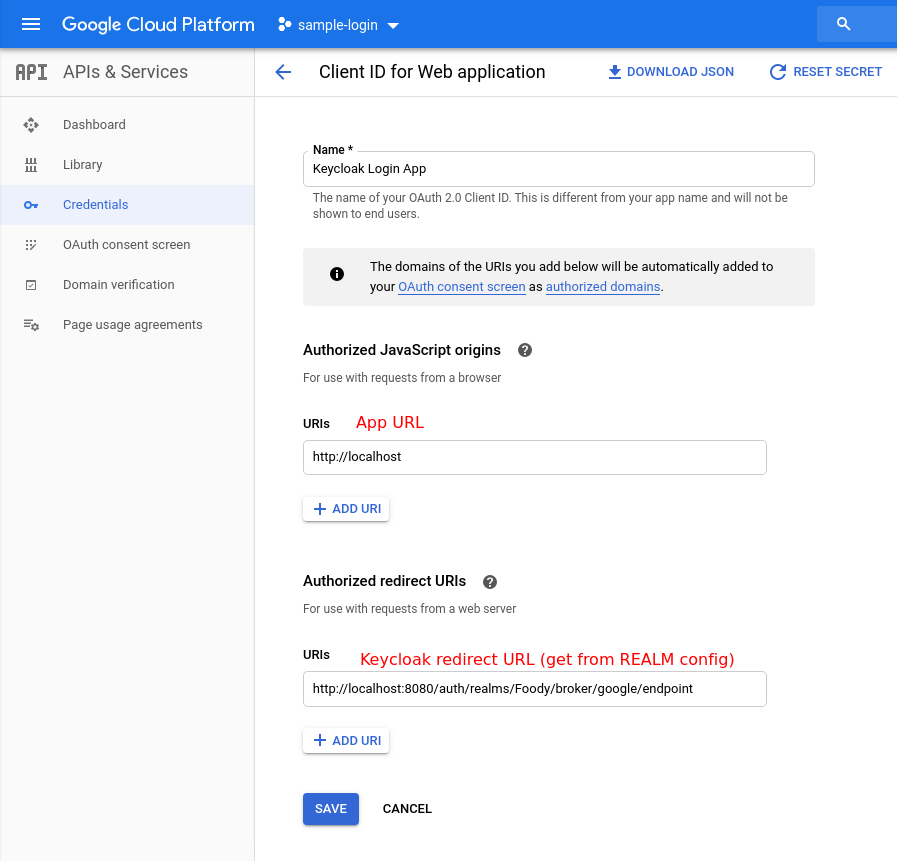
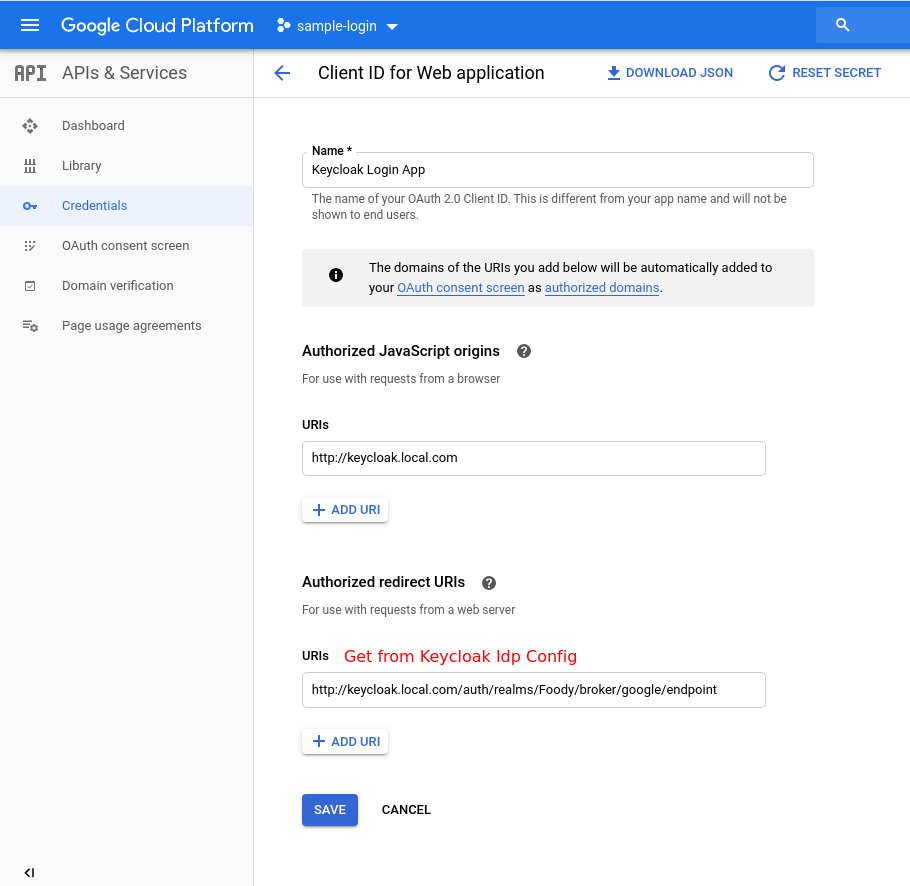
adding docs

diff --git a/sample-keycloak/README.md b/sample-keycloak/README.md
@@ -8,16 +8,24 @@ Edit `start.sh` and replace connecting network interface. Then run
 ./start.sh
 ```
 
+### Flow
+
+![flow](resources/flow.png)
+
 ### Getting started
 
 #### Prepare environment
 
 - Set `/etc/hosts` with entry `127.0.0.1 keycloak.local.com`
+  - Because keycloak gatekeeper need a public way to access keycloak.
 - Modify docker-compose with appropriate DNS if does not use `keycloak.local.com`
 
 #### Social login
 
 - Adding 1 new Realm
+  - Setting Realm frontend URL as `http://keycloak.local.com/auth`
+
+![realm](resources/realm_config.png)
 
 - Adding Identity Provider (Google)
 
@@ -26,9 +34,13 @@ Edit `start.sh` and replace connecting network interface. Then run
 
 - Adding 1 new Client:
   - Each client represent an app that will integrate with Keycloak. For example: logs, k8s dashboard, moltres, .... So you need to create a difference client for each app
+  - You might set Client `Root URL` and `Base URL` as desire app (for example echo app). This might be used as redirect URL after login.
 
 - Changing `Client/Access Type` to `confidential` then Save
   - `Credentials` tab will appear after saved
+  - Take note of Client Id and Secret in Credentials tab
+
+- Follow the example config of Keycloak Gatekeeper
 
 ### Previous issues
 
@@ -41,3 +53,7 @@ Edit `start.sh` and replace connecting network interface. Then run
 - Need to add 2 environment variable:
   - `KEYCLOAK_FRONTEND_URL`: pointing to public entry of keycloak (in this case the public DNS/port of the proxy)
   - `PROXY_ADDRESS_FORWARDING`: need to be set to true
+
+#### Keycloak IdP no access token
+
+- Because of invalid scopes setting on Keycloak Gatekeeper
